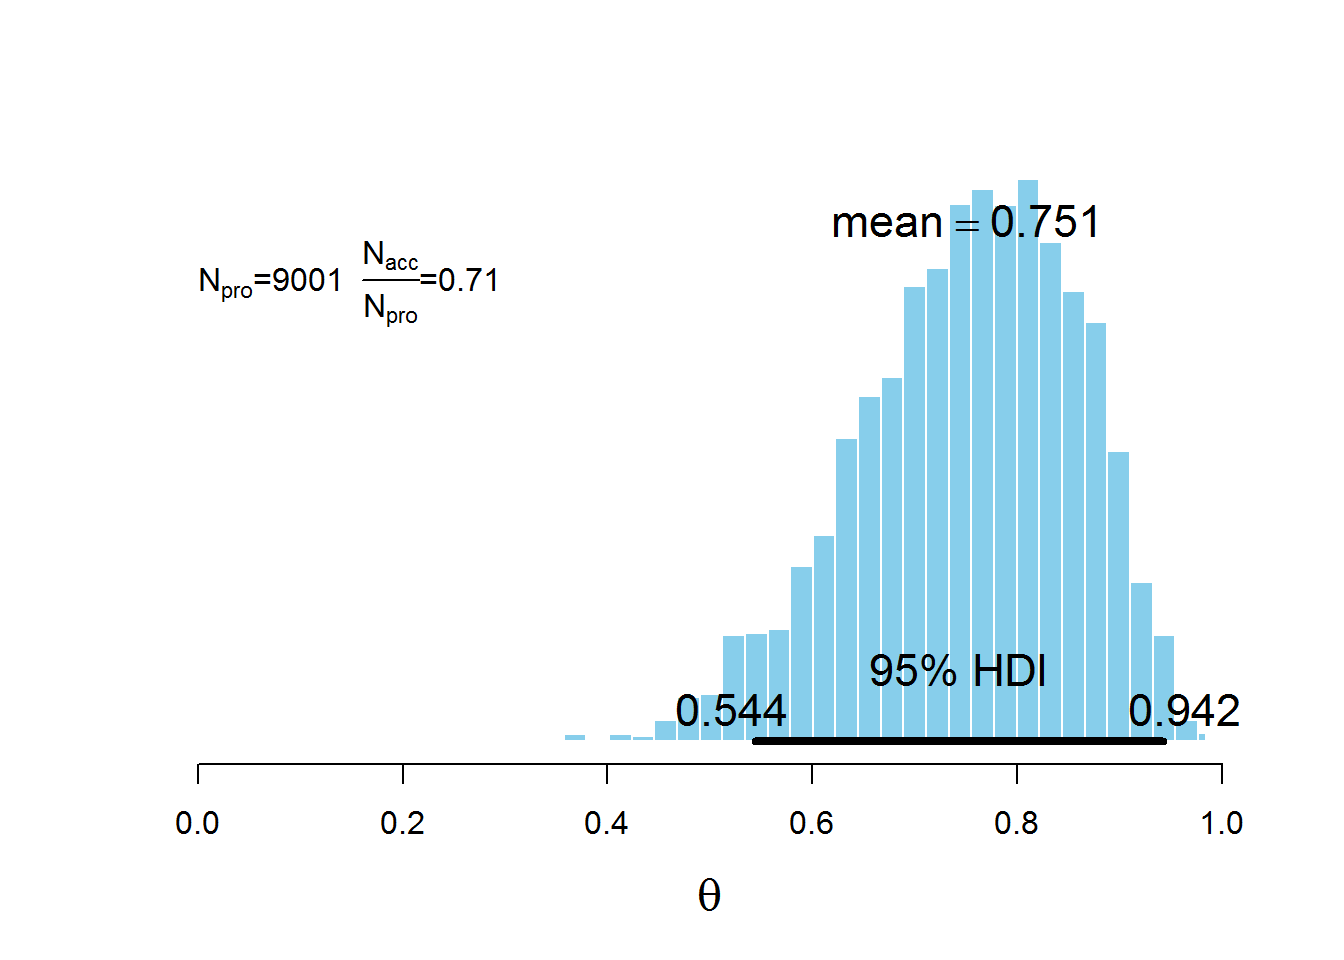
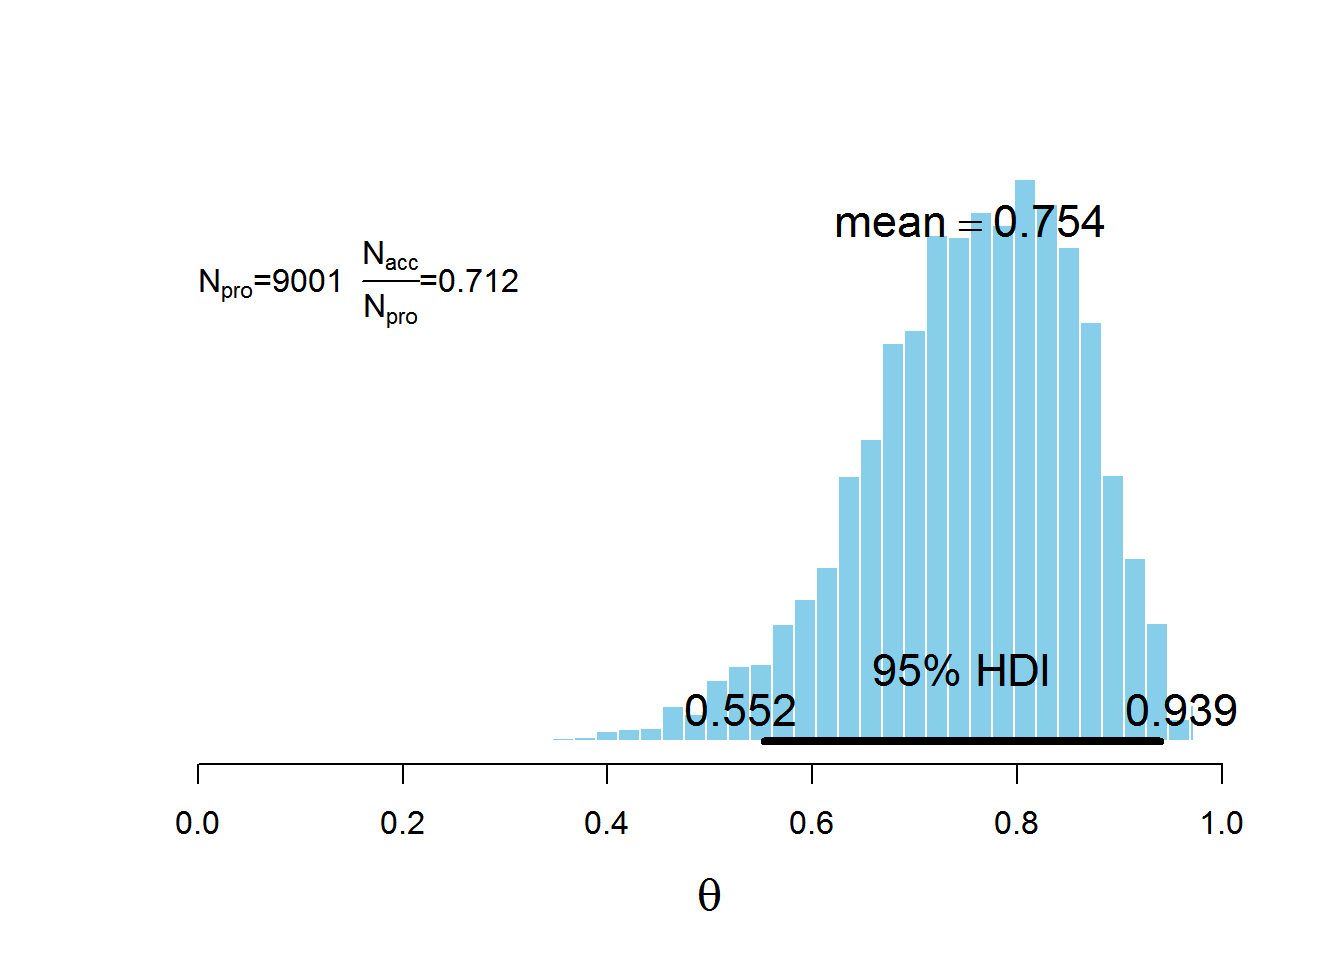
plots

diff --git a/chapter7-exercises.html b/chapter7-exercises.html
@@ -137,6 +137,9 @@ img {
                         <li>
                             <a href="chapter7-exercises.html">Chapter 7</a>
                         </li>
+                        <li>
+                            <a href="chapter8-exercises.html">Chapter 8</a>
+                        </li>
                     </ul>
                 </li>
                 <li class="dropdown">
@@ -223,7 +226,7 @@ acceptedTraj &lt;-<span class="st"> </span>trajectory[(burnIn<span class="dv">+1
 <blockquote>
 <p>Which proposal distribution gave the most accurate representation of the posterior? Which proposal distribution had the most rejected proposals? Which proposal distribution had the most rejected proposals?</p>
 </blockquote>
-<p>The proposal with <span class="math">\(SD = 0.1\)</span> gave the most accurate representation of the posterior. The number of rejected proposals for each were, <strong>2605</strong> when <span class="math">\(SD = 0.1\)</span>, <strong>48</strong> when <span class="math">\(SD = 0.001\)</span> and <strong>8992</strong> when <span class="math">\(SD = 100\)</span>.</p>
+<p>The proposal with <span class="math">\(SD = 0.1\)</span> gave the most accurate representation of the posterior. The number of rejected proposals for each were, <strong>2588</strong> when <span class="math">\(SD = 0.1\)</span>, <strong>43</strong> when <span class="math">\(SD = 0.001\)</span> and <strong>8989</strong> when <span class="math">\(SD = 100\)</span>.</p>
 </div>
 <div id="section-1" class="section level3">
 <h3>7.2</h3>
